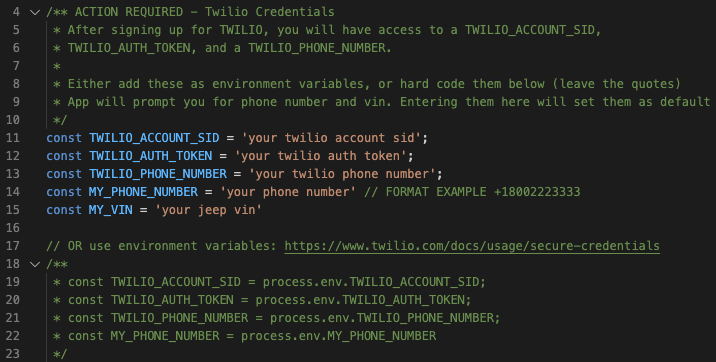
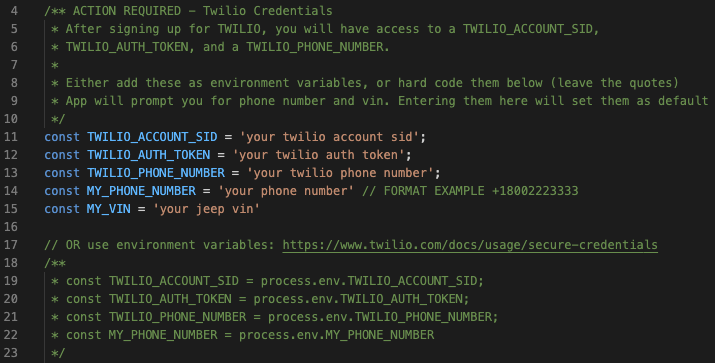
add vin to env

diff --git a/check-my-jeep-status.js b/check-my-jeep-status.js
@@ -13,14 +13,13 @@ const TWILIO_AUTH_TOKEN = 'your twilio auth token';
 const TWILIO_PHONE_NUMBER = 'your twilio phone number';
 const MY_PHONE_NUMBER = 'your phone number' // FORMAT EXAMPLE +18002223333
 const MY_VIN = 'your jeep vin' 
-
+ 
 // OR use environment variables: https://www.twilio.com/docs/usage/secure-credentials
-/**
- * const TWILIO_ACCOUNT_SID = process.env.TWILIO_ACCOUNT_SID;
- * const TWILIO_AUTH_TOKEN = process.env.TWILIO_AUTH_TOKEN;
- * const TWILIO_PHONE_NUMBER = process.env.TWILIO_PHONE_NUMBER;
- * const MY_PHONE_NUMBER = process.env.MY_PHONE_NUMBER
- */
+// const TWILIO_ACCOUNT_SID = process.env.TWILIO_ACCOUNT_SID;
+// const TWILIO_AUTH_TOKEN = process.env.TWILIO_AUTH_TOKEN;
+// const TWILIO_PHONE_NUMBER = process.env.TWILIO_PHONE_NUMBER;
+// const MY_PHONE_NUMBER = process.env.MY_PHONE_NUMBER;
+// const MY_VIN = process.env.MY_VIN;
 
 const client = require('twilio')(TWILIO_ACCOUNT_SID, TWILIO_AUTH_TOKEN);
 
@@ -33,7 +32,7 @@ var questions = [
     type: 'input',
     name: 'vin',
     message: "What's you Jeep VIN number?",
-    default: MY_VIN // enter your vin here for quick start
+    default: MY_VIN
   },
   {
     type: 'confirm',
@@ -50,7 +49,7 @@ var questions = [
   {
     type: 'input',
     name: 'number',
-    message: "Enter your phone number e.g. +12345678900: \nBe sure to enter it correctly with country code (not sure if out of US works with Twilio trial account).",
+    message: "Enter your phone number e.g. +18002223333: \nBe sure to enter it correctly with country code (not sure if out of US works with Twilio trial account).",
     default: MY_PHONE_NUMBER
   },
 ]
@@ -118,5 +117,5 @@ promptQuestions().then(() => {
   }
   sendMessage('You are all set! Leave your computer on and awake, or run the program on a server and wait for the good news!')
   checkMyJeepStatus()
-  setInterval(checkMyJeepStatus, 60*1000*30)
+  setInterval(checkMyJeepStatus, 60*1000*30) // run every 30 minutes
 })
